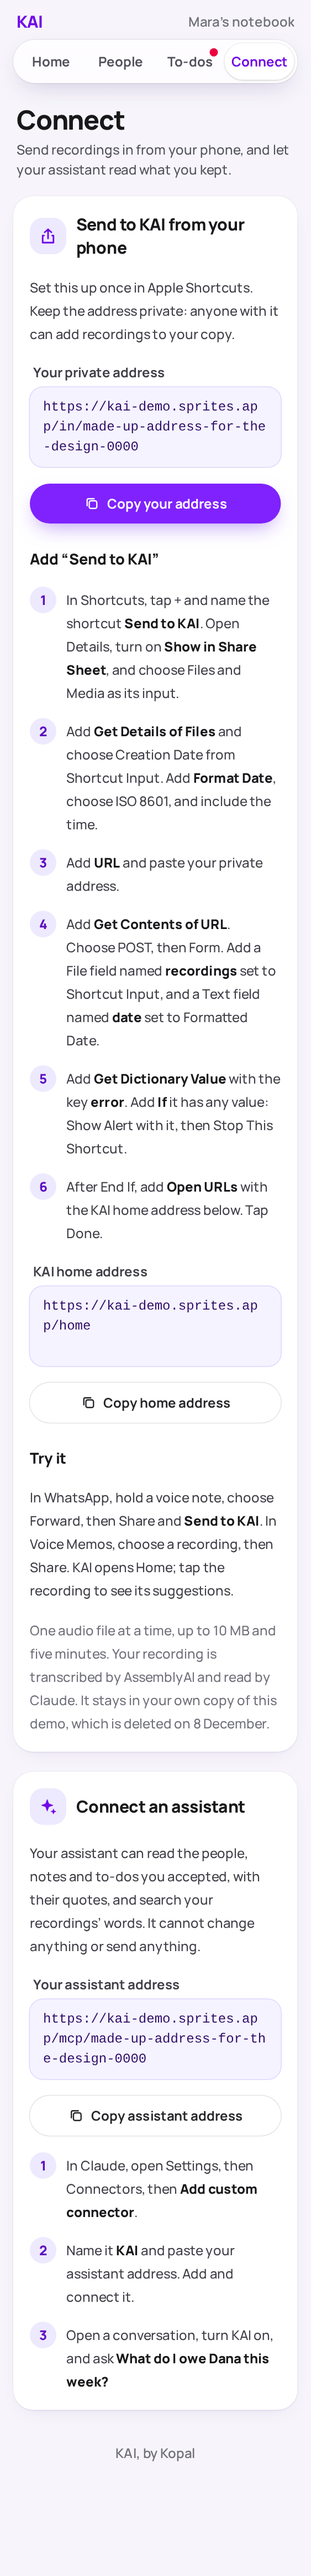
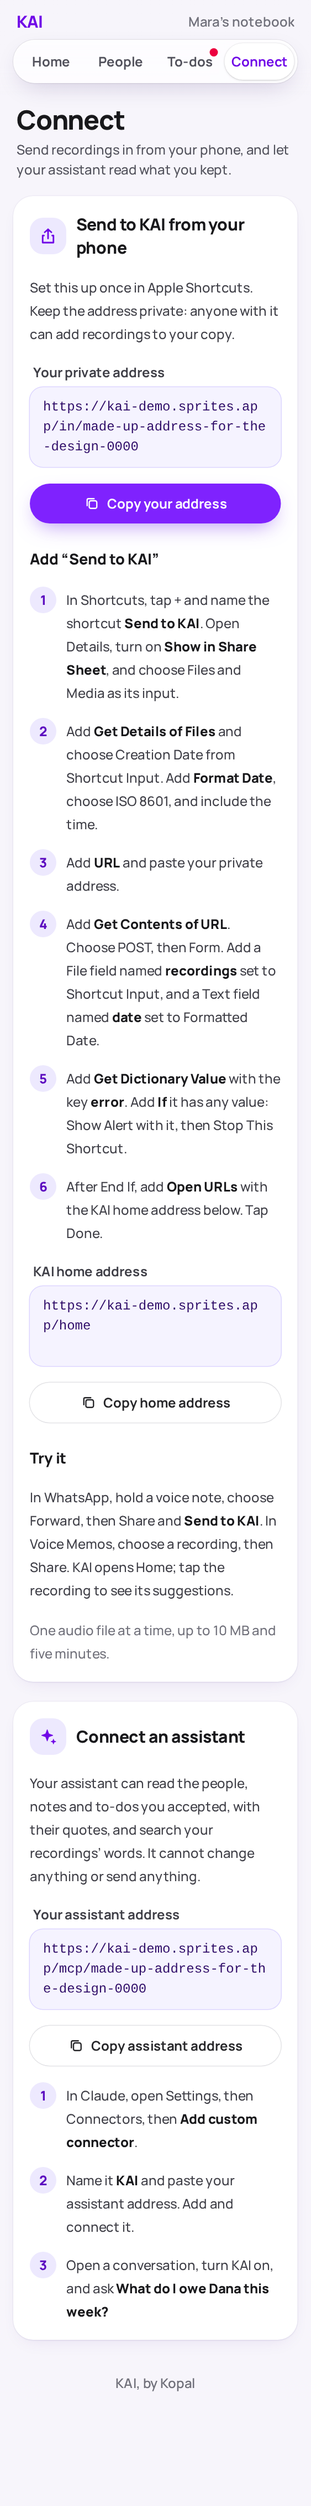
Keep the recording notice on Home only as Copal requested

diff --git a/src/look/screens/Connect.tsx b/src/look/screens/Connect.tsx
@@ -2,7 +2,6 @@ import type { ReactNode } from 'react'
 import { Icon, type IconName } from '../icons'
 import type { Connection } from '../types'
 import { Button, Card, Notice, TabPage, WhatIsKai } from '../ui'
-import { RECORDING_NOTICE } from './Home'
 
 /** An address to copy: shown whole, selectable, never a field you type in. */
 function Address({ label, id, value }: { label: string; id: string; value: string }) {
@@ -126,7 +125,7 @@ export function Connect({
             <p className="text-base/7 font-medium text-zinc-700">
               In WhatsApp, hold a voice note, choose Forward, then Share and <B>Send to KAI</B>. In Voice Memos, choose a recording, then Share. KAI opens Home; tap the recording to see its suggestions.
             </p>
-            <p className="text-base/7 font-medium text-zinc-500">One audio file at a time, up to 10 MB and five minutes. {RECORDING_NOTICE}</p>
+            <p className="text-base/7 font-medium text-zinc-500">One audio file at a time, up to 10 MB and five minutes.</p>
           </>
         )}
       </Card>
